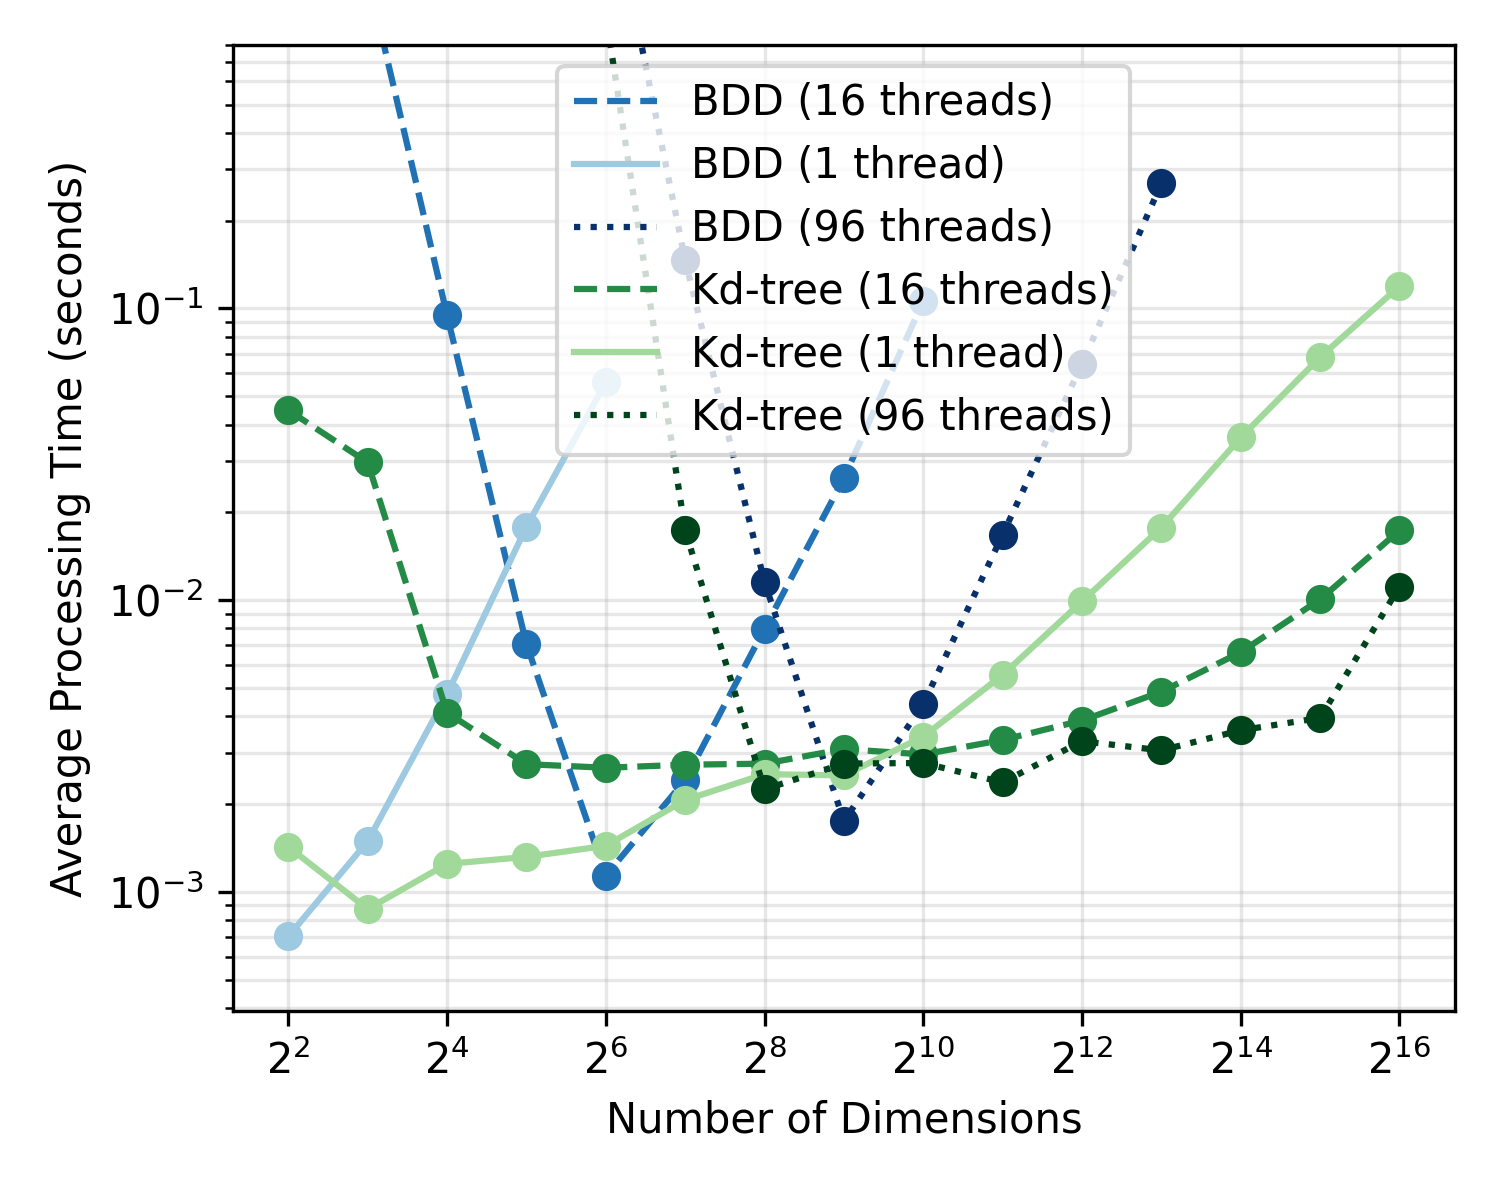
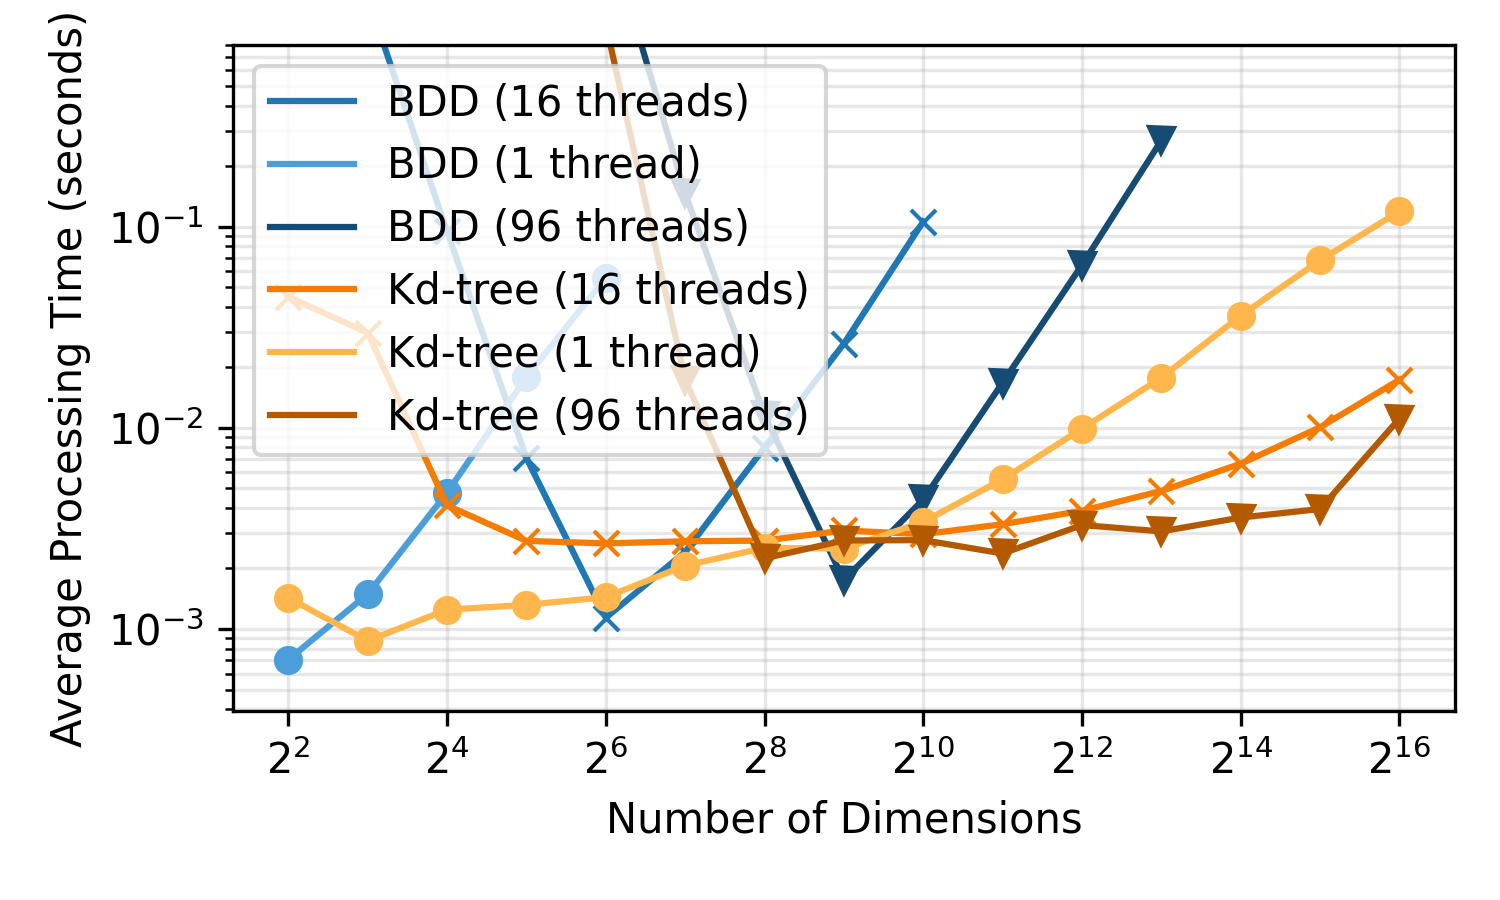
final-ish parallelization plot

Changed region(s): [[0.0307, 0.0, 0.9813, 0.9644], [0.92, 0.2178, 0.9507, 0.2489], [0.8893, 0.2489, 0.92, 0.28]]

diff --git a/results/par/plot.py b/results/par/plot.py
@@ -18,24 +18,25 @@ def get_average_time(json_path):
 results_dir = 'results'
 methods = sorted(os.listdir(results_dir))
 
-plt.figure(figsize=(5, 4))
+plt.figure(figsize=(5, 3))
 
 y_min = 0.0001
 y_max = 0.8
 
+
 colors = {
-    'bdd-96t': '#08306b',  # dark blue
-    'bdd-16t': '#2171b5', # medium blue
-    'bdd-1t': '#9ecae1', # light blue
-    'kdtree-96t': '#00441b',  # dark green
-    'kdtree-16t': '#238b45', # medium green
-    'kdtree-1t': '#a1d99b', # light green
+    'bdd-1t': '#4c9edb',     # light blue
+    'bdd-16t': '#1f77b4',    # default blue
+    'bdd-96t': '#164b73',    # dark blue
+    'kdtree-1t': '#ffb74d',  # light orange
+    'kdtree-16t': '#f57c00', # default orange
+    'kdtree-96t': '#b35a00', # dark orange
 }
 
 line_styles = {
     '1t': '-',
-    '16t': '--',
-    '96t': ':'
+    '16t': '-',
+    '96t': '-'
 }
 
 for method in methods:
@@ -79,7 +80,7 @@ for method in methods:
              color=colors[f'{base_method}-{thread_style}'],
              label=method_displaynames[method])
     # Plot markers only for points within limits
-    plt.plot(dimensions[mask], avg_times[mask], 'o', 
+    plt.plot(dimensions[mask], avg_times[mask], {'1t': 'o', '16t': 'x', '96t': 'v'}[thread_style], 
              color=colors[f'{base_method}-{thread_style}'])
 
 plt.xscale('log', base=2)
